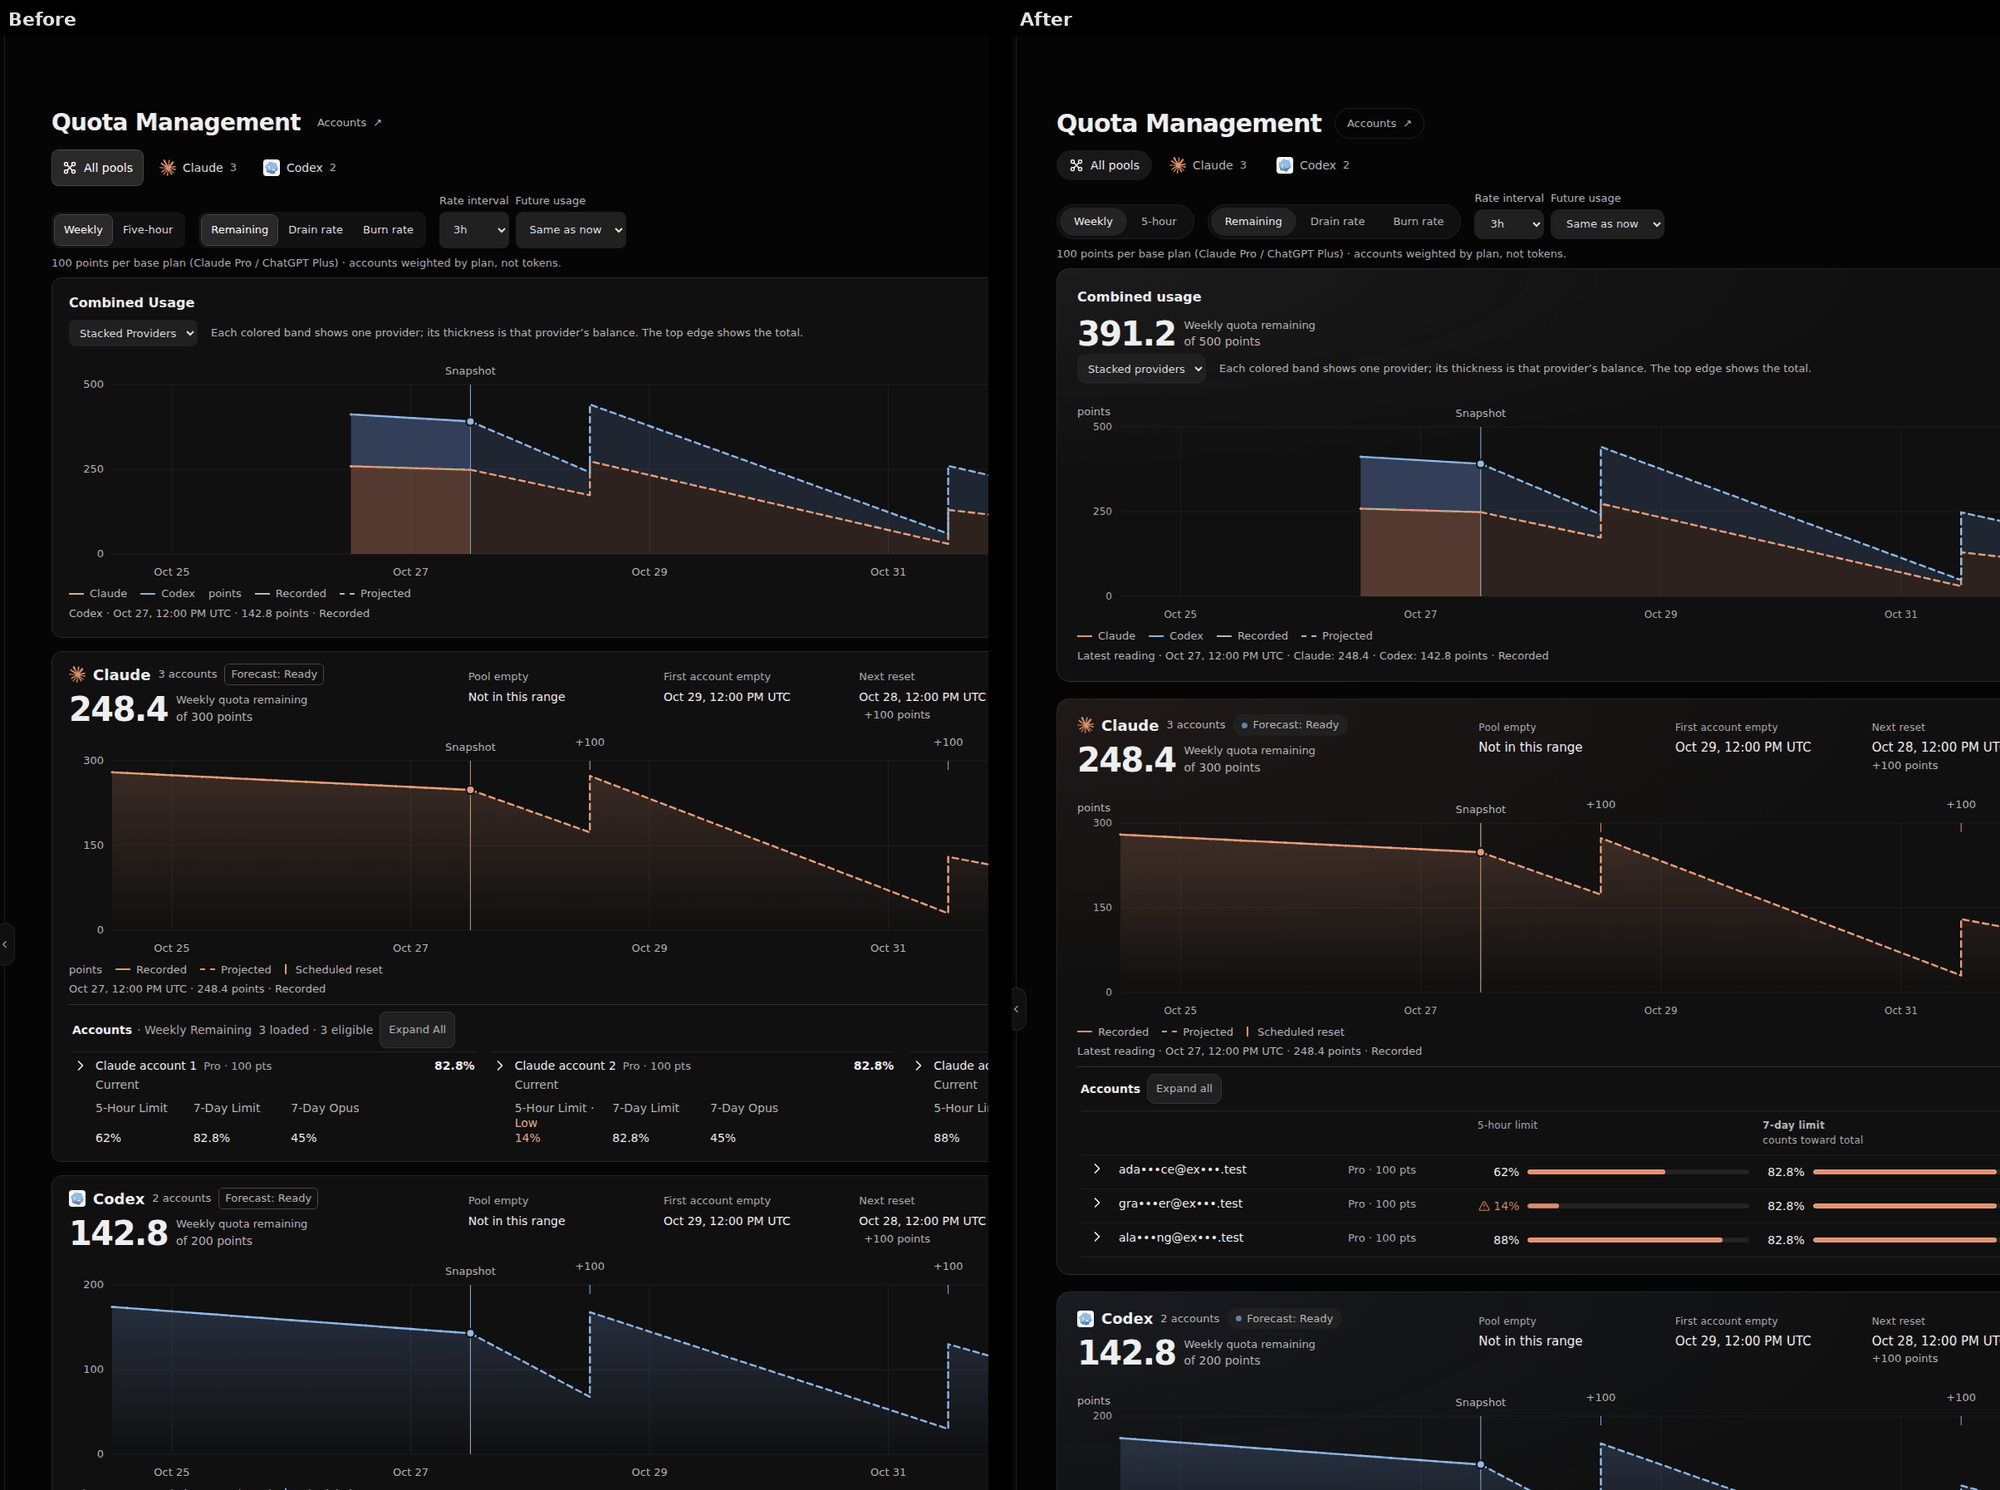
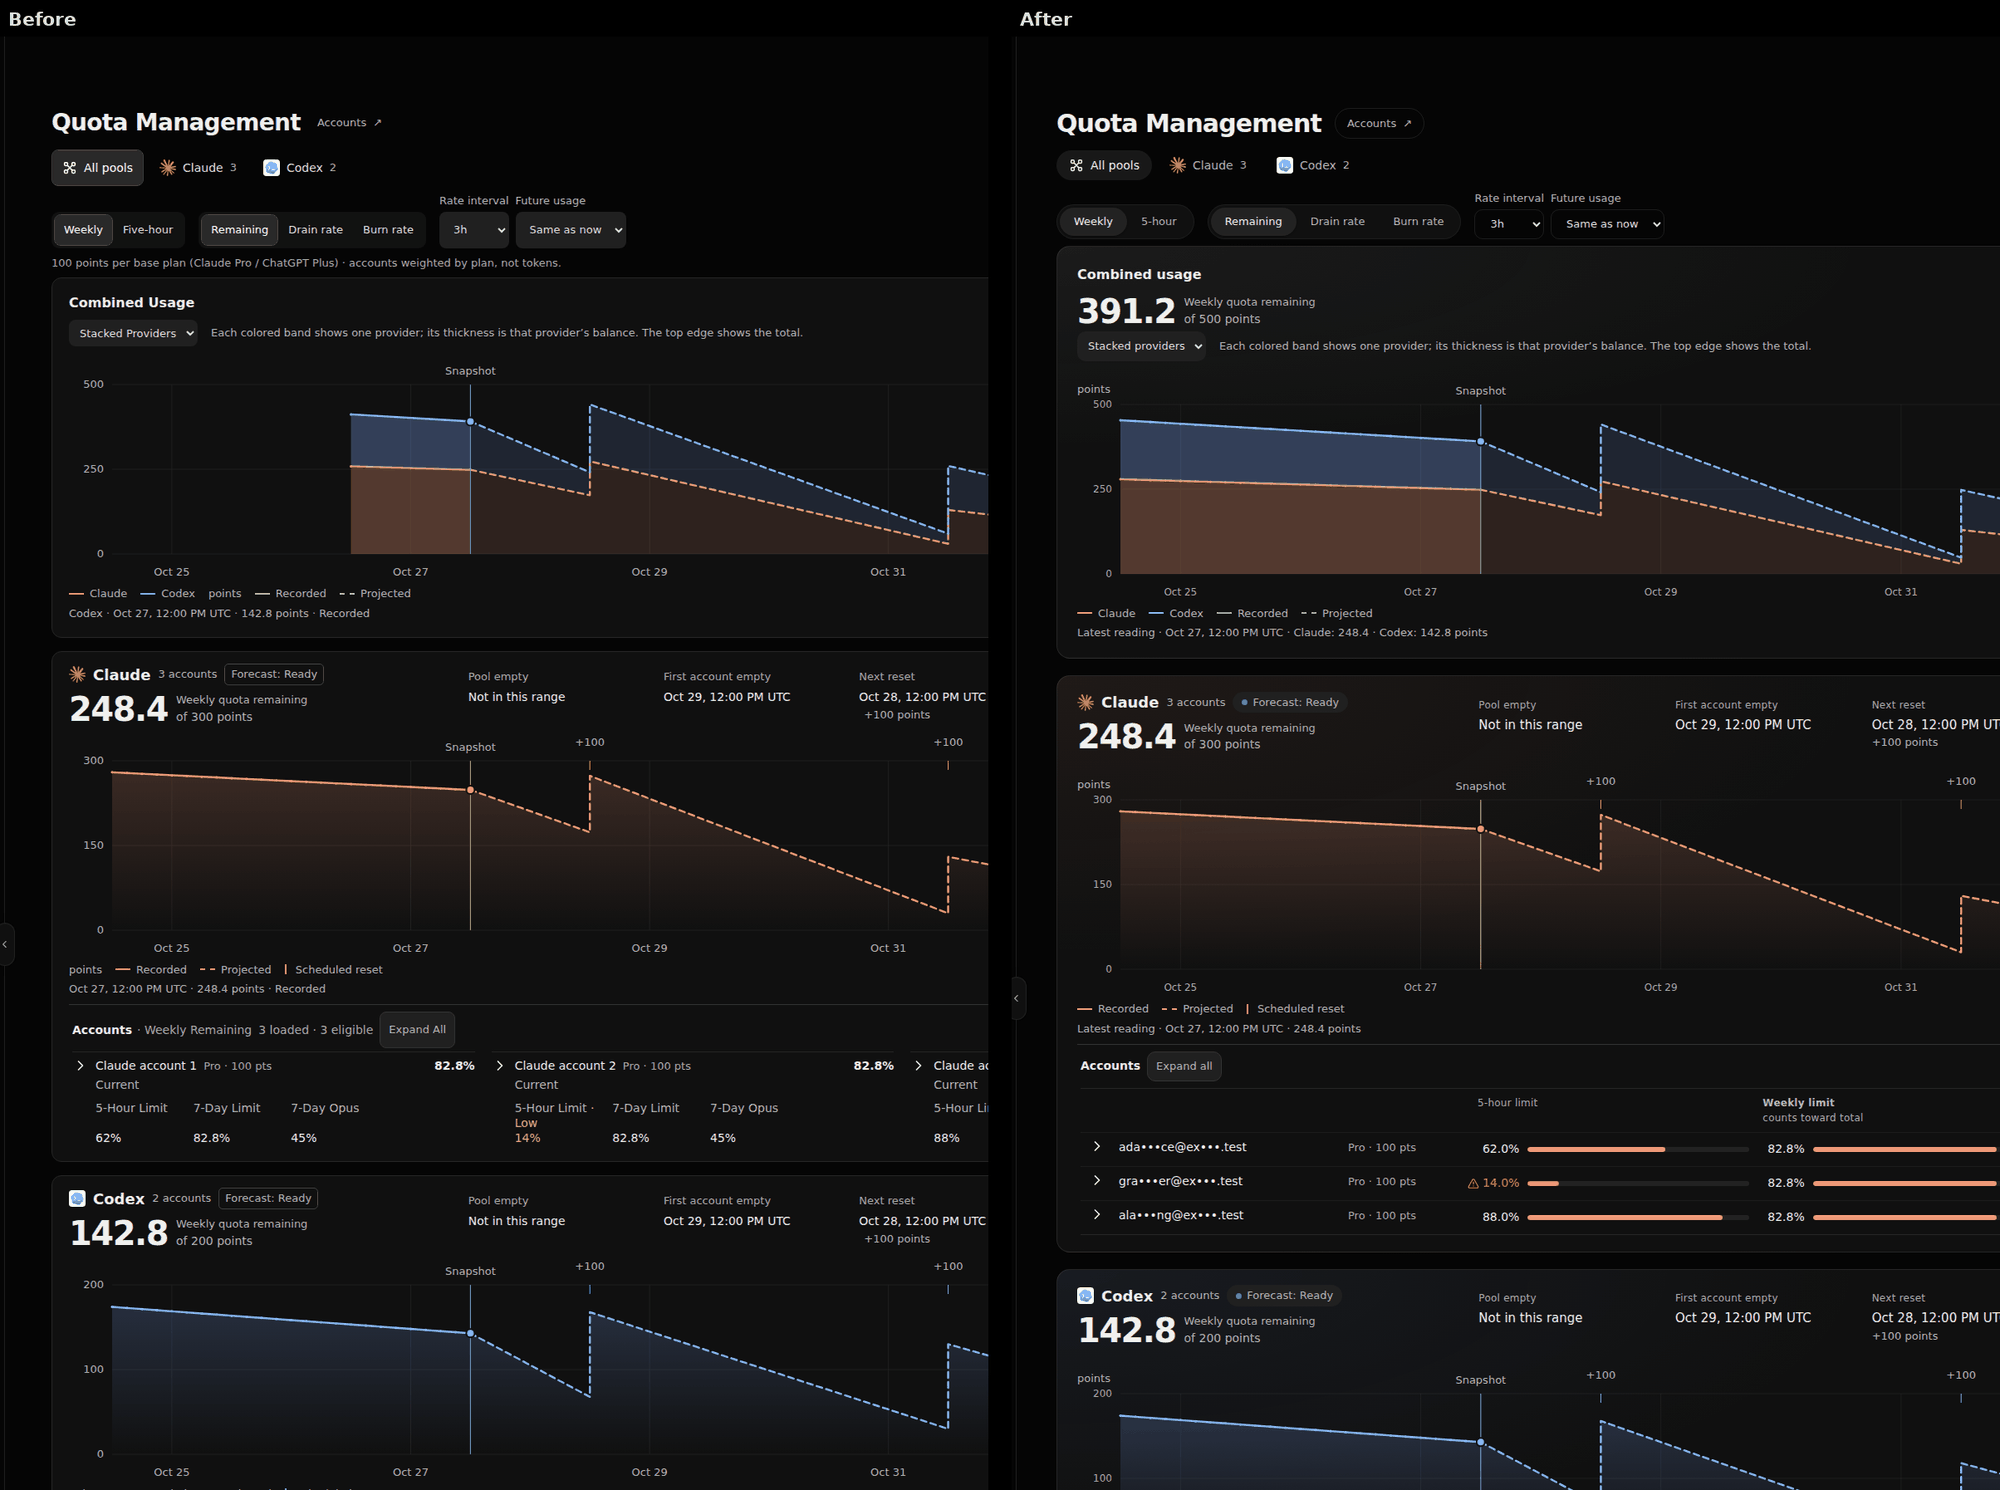
feat(quota): one decimal for every limit percentage, and say why the combined total is missing
Limit and balance percentages always carry one decimal ("62.0%" beside
"82.8%"), so a column of them lines up. When partial or stale data withholds
the combined total, the combined card now gives the same reason line as the
provider cards instead of a bare "Total unavailable".

The capture fixture builds the combined total from the provider histories, so
the combined chart covers the same span as the provider charts. The round
record and screenshots are updated through round 18.

diff --git a/tests/proxQuotaDashboard.test.ts b/tests/proxQuotaDashboard.test.ts
@@ -760,7 +760,8 @@ describe('pool presentation', () => {
     expect(markup).not.toContain('>Ready<');
     const accounts = markup.slice(markup.search(/<section[^>]*aria-labelledby="[^"]+-accounts"/));
     expect(accounts).toContain('Claude account 1');
-    expect(accounts).toContain('73%');
+    // Every limit percentage carries one decimal, so a column of them lines up.
+    expect(accounts).toContain('73.0%');
     expect(markup.indexOf('<svg')).toBeLessThan(markup.indexOf('Claude account 1'));
     expect(markup).not.toMatch(/<details[^>]*forecast/);
     expect(markup).not.toMatch(/<details[^>]*\bopen[\s=>]/);
@@ -864,9 +865,9 @@ describe('pool presentation', () => {
     // Every reported limit is listed under its account; low ones are flagged.
     expect(markup).toContain('aria-label="Limits"');
     expect(markup).toMatch(
-      /<li data-low="true"[^>]*><span>5-hour limit<\/span>[\s\S]*?<strong><span title="Low">[\s\S]*?<span>Low<\/span>[\s\S]*?12%/
+      /<li data-low="true"[^>]*><span>5-hour limit<\/span>[\s\S]*?<strong><span title="Low">[\s\S]*?<span>Low<\/span>[\s\S]*?12.0%/
     );
-    expect(markup).toMatch(/<li data-low="false"[^>]*><span>[^<]*Opus[^<]*<\/span>[\s\S]*?64%/);
+    expect(markup).toMatch(/<li data-low="false"[^>]*><span>[^<]*Opus[^<]*<\/span>[\s\S]*?64.0%/);
     // Accounts start collapsed (numbers only); one control expands the whole section.
     expect(markup).toMatch(
       /<button type="button"[^>]*aria-expanded="false"[^>]*>Expand all<\/button>/
@@ -884,6 +885,26 @@ describe('pool presentation', () => {
       createElement(PoolCard, { pool, dashboard, mode: 'remaining', reveal: true })
     );
     expect(revealed).toContain('private@example.test');
+  });
+  test('a combined total withheld for partial data says why, as the provider cards do', async () => {
+    await i18n.changeLanguage('en');
+    const series = { ...pool, forecastState: 'partial' as const, remainingPoints: null };
+    const markup = renderToStaticMarkup(
+      createElement(CombinedPoolCard, {
+        pools: [pool],
+        dashboard: {
+          ...dashboard,
+          combined: {
+            all: { series, layers: [{ ...series, provider: 'claude' }], unavailableReason: null },
+          },
+        },
+        provider: 'all',
+        mode: 'remaining',
+        savedData: false,
+      })
+    );
+    expect(markup).toContain('Total unavailable');
+    expect(markup).toContain('some eligible accounts have no current quota data');
   });
   test('a total that cannot be stacked shows provider lines and keeps its reason', async () => {
     await i18n.changeLanguage('en');
@@ -940,7 +961,7 @@ describe('pool presentation', () => {
         reveal: false,
       })
     );
-    expect(markup).toMatch(/<strong data-low="true">.*?12%<\/strong>/);
+    expect(markup).toMatch(/<strong data-low="true">.*?12.0%<\/strong>/);
   });
   test('accounts without a 5-hour limit are counted as such, not as missing', async () => {
     await i18n.changeLanguage('en');

diff --git a/src/features/quotaPool/PoolCard.tsx b/src/features/quotaPool/PoolCard.tsx
@@ -7,7 +7,7 @@ import { PoolChart } from './PoolChart';
 import { PoolGraph } from './PoolGraph';
 import { PoolGraphToggle } from './PoolGraphToggle';
 import { PoolProviderMark } from './PoolProviderMark';
-import { formatPoolDate, formatPoolNumber, isLowQuota } from './presentation';
+import { formatPoolDate, formatPoolNumber, formatPoolPercent, isLowQuota } from './presentation';
 import styles from './QuotaPoolPage.module.scss';
 
 /** Rosters longer than this get a search box and a sort, so one account can be found. */
@@ -50,6 +50,7 @@ export function PoolCard({
       return next;
     });
   const number = (value: number | null) => formatPoolNumber(value, i18n.language);
+  const percent = (value: number) => formatPoolPercent(value, i18n.language);
   const date = (value: number | null) => formatPoolDate(value, i18n.language);
   const forecastDate = (value: number | null, available = pool.forecastState === 'ready') =>
     value === null ? (
@@ -435,9 +436,7 @@ export function PoolCard({
                         <span className={styles.srOnly}>{t('quota_pool.limit_low')}</span>
                       </>
                     )}
-                    {account.remainingPercent === null
-                      ? '—'
-                      : `${number(account.remainingPercent)}%`}
+                    {account.remainingPercent === null ? '—' : percent(account.remainingPercent)}
                   </strong>
                   {account.windows.length > 0 && (
                     <ul className={styles.limits} aria-label={t('quota_pool.limits')}>
@@ -470,7 +469,7 @@ export function PoolCard({
                             )}
                             {limit.remainingPercent === null
                               ? '—'
-                              : `${number(limit.remainingPercent)}%`}
+                              : percent(limit.remainingPercent)}
                           </strong>
                           {limit.resetAtMs !== null && (
                             <small>

diff --git a/src/features/quotaPool/CombinedPoolCard.tsx b/src/features/quotaPool/CombinedPoolCard.tsx
@@ -83,6 +83,12 @@ export function CombinedPoolCard({
           )}
         </div>
       </div>
+      {/* Partial or stale data withholds the total; say why, as the provider cards do. */}
+      {headline === null && total?.series && total.series.forecastState !== 'ready' && (
+        <p className={styles.stateNote} role="status" data-state={total.series.forecastState}>
+          {t(`quota_pool.state_note.${total.series.forecastState}`, { window: windowLabel })}
+        </p>
+      )}
       {/* Why there is no total to stack, beside the headline it explains. */}
       {!stackable && (
         <p className={styles.stateNote} role="status">

diff --git a/src/features/quotaPool/presentation.ts b/src/features/quotaPool/presentation.ts
@@ -1,3 +1,7 @@
+/** Limit percentages always carry one decimal, so a column of them lines up. */
+export const formatPoolPercent = (value: number, locale: string) =>
+  `${new Intl.NumberFormat(locale, { minimumFractionDigits: 1, maximumFractionDigits: 1 }).format(value)}%`;
+
 export const formatPoolNumber = (value: number | null, locale: string) =>
   value === null ? '—' : new Intl.NumberFormat(locale, { maximumFractionDigits: 1 }).format(value);
 

diff --git a/scripts/visual/prox-quota-capture.py b/scripts/visual/prox-quota-capture.py
@@ -209,33 +209,30 @@ def fixture(state):
     if state == "ultra":
         f = 1821.6 / 248.4
         total.update(capacityPoints=2400, remainingPoints=1964.4)
-        total["recorded"] = [dict(item, remainingPoints=value) for item, value in
-                             zip(total["recorded"], (258.8 * f + 153.2, 1964.4))]
         total["projected"] = [dict(item, remainingPoints=item["remainingPoints"] * 1964.4 / 391.2)
                               for item in total["projected"]]
     if state == "no-limit":
         total.update(capacityPoints=400, remainingPoints=152)
-        total["recorded"] = [dict(item, remainingPoints=value) for item, value in zip(total["recorded"], (160, 152))]
         # The total is the sum of the provider layers at the same moments, so the bands stack.
         total["projected"] = [dict(a, remainingPoints=a["remainingPoints"] + b["remainingPoints"])
                               for a, b in zip(pools[0]["projected"], pools[1]["projected"])]
     if state in ("partial","stale","collecting","long"):
         total.update(forecastState="partial" if state=="long" else state, projected=[],resets=[])
         if state!="collecting": total.update(remainingPoints=None,burnPointsPerHour=None,drainPointsPerHour=None)
+    # Each layer is its pool's own history and the total is their sum at the same moments, so the
+    # combined chart covers the same span as the provider charts (a missing value stays missing).
     layers=[]
-    previous_values=([80,80] if state=="no-limit" else [258.8 * 1821.6 / 248.4,153.2] if state=="ultra"
-                     else [258.8 * sizes[0] / 3,153.2 * sizes[1] / 2])
-    for pool,previous in zip(pools,previous_values):
+    for pool in pools:
         layer={key:pool[key] for key in total}
         layer["provider"]=pool["provider"]
-        layer["recorded"]=[dict(atMs=at,remainingPoints=value,burnPointsPerHour=pool["burnPointsPerHour"],
-                                drainPointsPerHour=pool["drainPointsPerHour"])
-                           for at,value in [(NOW-DAY,previous),(NOW,pool["remainingPoints"])]]
-        if state=="collecting":layer["recorded"]=layer["recorded"][-1:]
+        layer["recorded"]=[dict(item) for item in pool["recorded"]]
         layers.append(layer)
-    if state=="collecting":total["recorded"]=total["recorded"][-1:]
-    if state in ("partial","stale","long"):
-        total["recorded"][-1].update(remainingPoints=None,burnPointsPerHour=None,drainPointsPerHour=None)
+    if len(layers) == 2:
+        fields = ("remainingPoints", "burnPointsPerHour", "drainPointsPerHour")
+        total["recorded"] = [
+            dict(atMs=a["atMs"], **{key: None if a[key] is None or b[key] is None else a[key] + b[key] for key in fields})
+            for a, b in zip(layers[0]["recorded"], layers[1]["recorded"])
+        ]
     combined = {"all":dict(series=total,layers=layers,unavailableReason=None)}
     combined.update({layer["provider"]:dict(series={key:layer[key] for key in total},layers=[layer],unavailableReason=None) for layer in layers})
     if state == "stacked-unavailable": combined["all"] = dict(series=None,unavailableReason="ambiguous-sources")

diff --git a/docs/evidence/quota-hillclimb/rounds.md b/docs/evidence/quota-hillclimb/rounds.md
@@ -24,29 +24,30 @@ Rounds 0–10 showed reviewers the previous round's medians; from round 11 they 
 | 13 | 4 | 0/90 | 87 | 8.34 | 7.8 | 35 | 0 |
 | 14 | 4 | 0/90 | 88 | 8.34 | 7.9 | 35 | 0 |
 | 15 | 4 | 0/90 | 89 | 8.34 | 7.8 | 35 | 0 |
+| 16 | 4 | 1/90 | 89 | 8.45 | 7.9 | 35 | 0 |
+| 17 | 4 | 0/90 | 88 | 8.32 | 7.8 | 35 | 0 |
+| 18 | 4 | 0/90 | 89 | 8.42 | 7.9 | 35 | 0 |
 
-Rounds 14–15 added the header refresh busy state, roster paging (25 rows, then "Show all"), and a marked "counts toward total" limit column in place of the duplicate remaining column. Final capture after round 15 (three small fixes, not re-scored): 35 captures, 0 failed checks.
+Rounds 14–15 added the header refresh busy state, roster paging (25 rows, then "Show all"), and a marked "counts toward total" limit column in place of the duplicate remaining column. Rounds 16–18 fitted the 5-hour and rate charts to their data, named Claude's 7-day window Weekly, and moved the disabled control's reason under it. Round 16 had the run's only passing cell (empty state, colour, 9.0). From round 16 on, a lens's mean moved up to ±0.3 between rounds on screens that did not change, so a 9.0 median is within reviewer noise of most cells.
 
 Measured checks every round: text contrast 4.5:1 (3:1 large), targets 24px (44px touch), no page overflow or clipped text, meaning-colour thresholds, nesting depth below 4 surfaces, and no hidden reason for a disabled control.
 
-## Round 15 medians
+## Round 18 medians
 
 | Screen | Hierarchy | Layout | Type and numbers | Colour | Content | Controls and states | Consistency | Responsive and accessible | Grouping |
 |---|---|---|---|---|---|---|---|---|---|
-| 1-ready | 8.6 | 8.3 | 8.4 | 8.8 | 8.2 | 8.2 | 8.4 | 8.4 | 8.2 |
-| 2-empty | 8.8 | 8.2 | 8.8 | 8.9 | 8.6 | 8.7 | 8.7 | 8.8 | 8.7 |
-| 3-loading | 8.3 | 8.1 | 8.6 | 8.7 | 8.4 | 8.3 | 8.1 | 8.2 | 8.3 |
-| 4-error | 8.7 | 8.5 | 8.6 | 8.8 | 8.4 | 8.6 | 8.5 | 8.6 | 8.4 |
-| 5-degraded-data | 8.1 | 8.1 | 8.2 | 8.4 | 7.8 | 8.2 | 8.1 | 8.2 | 8.1 |
-| 6-accounts-expanded | 8.3 | 8.1 | 8.1 | 8.7 | 8.2 | 8.3 | 8.2 | 8.2 | 8.2 |
-| 7-forecast-views | 8.3 | 8.1 | 8.1 | 8.6 | 8.0 | 8.2 | 8.1 | 8.1 | 8.1 |
-| 8-refreshing | 8.5 | 8.3 | 8.4 | 8.8 | 8.3 | 8.2 | 8.3 | 8.4 | 8.2 |
-| 9-200-accounts | 8.4 | 8.3 | 8.4 | 8.4 | 8.1 | 8.1 | 8.1 | 8.1 | 8.2 |
-| 10-no-5-hour-limit | 8.4 | 8.2 | 8.2 | 8.6 | 8.1 | 8.2 | 8.2 | 8.1 | 8.2 |
+| 1-ready | 8.6 | 8.4 | 8.6 | 8.6 | 8.4 | 8.4 | 8.6 | 8.3 | 8.4 |
+| 2-empty | 8.8 | 8.4 | 8.8 | 8.9 | 8.6 | 8.6 | 8.6 | 8.6 | 8.8 |
+| 3-loading | 8.4 | 8.2 | 8.6 | 8.6 | 8.6 | 8.4 | 8.3 | 8.3 | 8.4 |
+| 4-error | 8.8 | 8.6 | 8.6 | 8.6 | 8.7 | 8.6 | 8.6 | 8.6 | 8.6 |
+| 5-degraded-data | 8.3 | 8.1 | 8.2 | 8.3 | 7.9 | 8.2 | 8.2 | 8.1 | 8.1 |
+| 6-accounts-expanded | 8.4 | 8.2 | 8.2 | 8.6 | 8.4 | 8.4 | 8.3 | 8.2 | 8.2 |
+| 7-forecast-views | 8.4 | 8.2 | 8.4 | 8.3 | 8.1 | 8.6 | 8.1 | 8.1 | 8.1 |
+| 8-refreshing | 8.6 | 8.4 | 8.6 | 8.6 | 8.4 | 8.2 | 8.4 | 8.4 | 8.4 |
+| 9-200-accounts | 8.5 | 8.4 | 8.6 | 8.4 | 8.3 | 8.2 | 8.3 | 8.3 | 8.4 |
+| 10-no-5-hour-limit | 8.5 | 8.4 | 8.4 | 8.6 | 8.5 | 8.4 | 8.4 | 8.2 | 8.4 |
 
 ## What kept cells below 9.0
 
-- The 5-hour view keeps the 10-day chart range.
-- Rate views keep the full date range, so recorded rates fill a sliver of the plot.
 - Reviewers still asked for a quieter toolbar, one name for the weekly window across providers ("7-day limit" vs "Weekly limit"), and fewer repeated timestamps in the refresh-error state.
 - Reviewers asked for further wording and grouping changes on degraded states (stale counted as loaded, reasons with an action).
